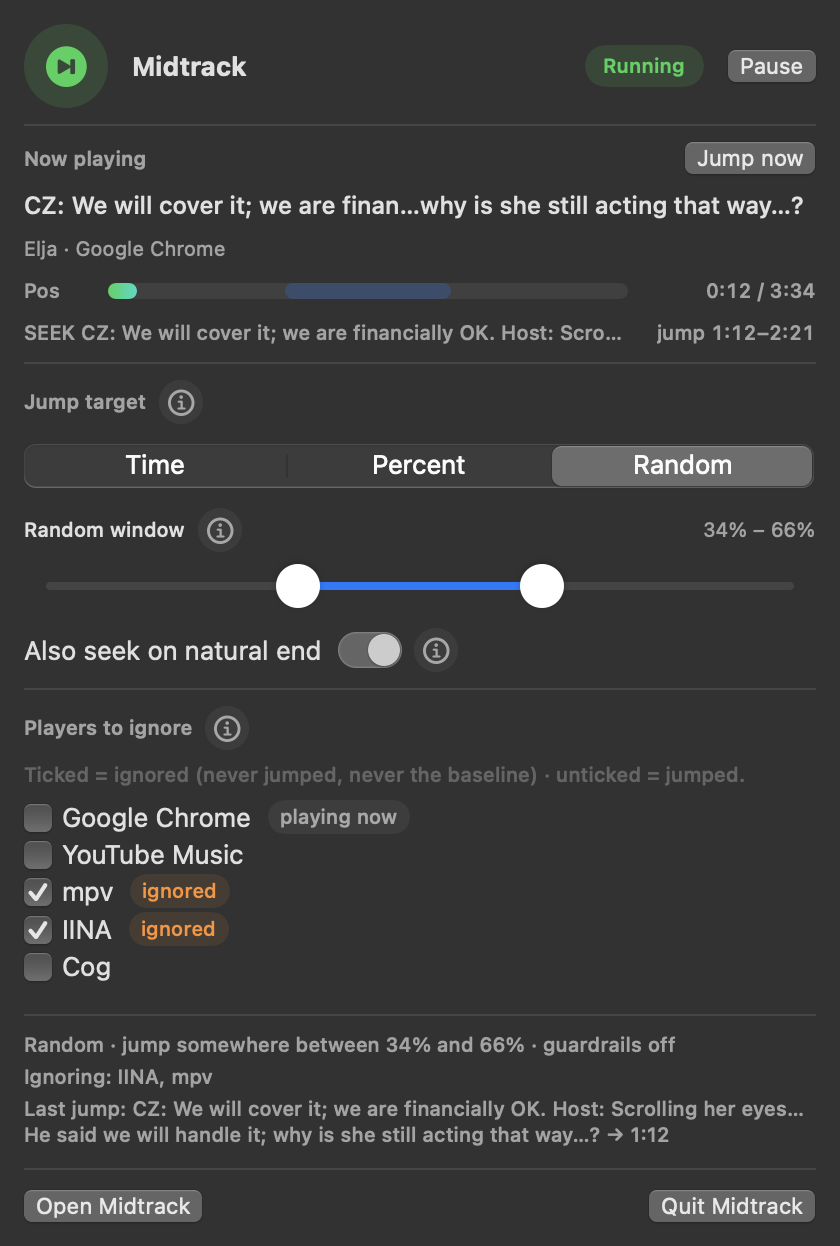
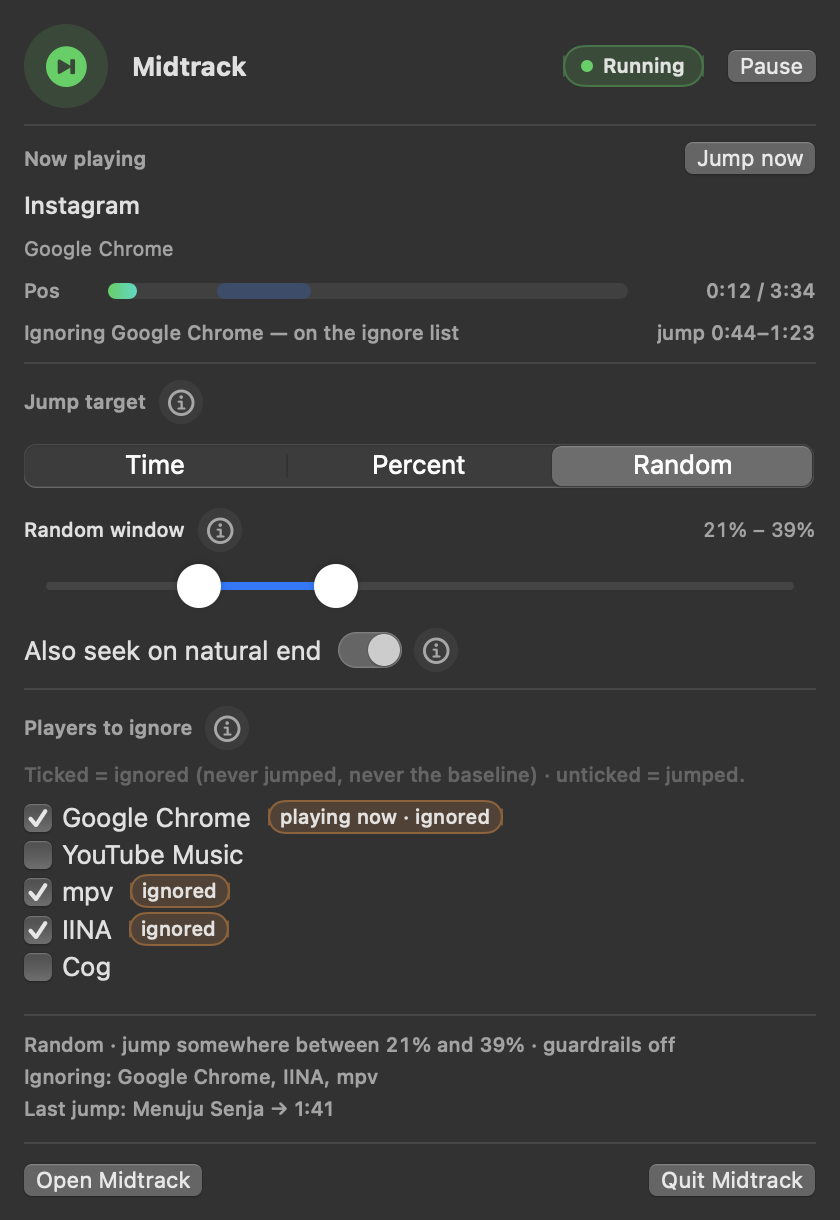
Improve badge contrast and move to com.xaepudin.midtrack
The Running capsule now uses primary text with a green dot, tint, and border
instead of green-on-green text; ignored player pills use primary text on an
orange tint with a border. Both stay legible on the translucent menu bar
material in light and dark appearance.

Change the bundle identifier to com.xaepudin.midtrack (the requested
com.xaepudin.konvolusi would collide with the Konvolusi app). On first launch
the new domain copies the previous com.asep.midtrack defaults once, preserving
the rule, ignore list, onboarding state, and window frame.

Docs screenshots regenerated with the new contrast.

diff --git a/Sources/Midtrack/ControlViews.swift b/Sources/Midtrack/ControlViews.swift
@@ -202,17 +202,33 @@ struct StatusHeader: View {
 
             Spacer(minLength: 8)
 
-            Text(status.enabled ? "Running" : "Paused")
-                .font(.caption.weight(.semibold))
-                .padding(.horizontal, 9)
-                .padding(.vertical, 4)
-                .foregroundStyle(status.enabled ? Color.green : Color.secondary)
-                .background(
-                    status.enabled ? Color.green.opacity(0.13) : Color.secondary.opacity(0.11),
-                    in: Capsule()
+            HStack(spacing: 5) {
+                Circle()
+                    .fill(status.enabled ? Color.green : Color.secondary.opacity(0.55))
+                    .frame(width: 6, height: 6)
+                    .accessibilityHidden(true)
+                Text(status.enabled ? "Running" : "Paused")
+                    .font(.caption.weight(.semibold))
+            }
+            .padding(.horizontal, 9)
+            .padding(.vertical, 4)
+            // The label itself stays in the primary text colour so it keeps its
+            // contrast on the translucent menu bar material; the dot and tint
+            // carry the green/grey meaning.
+            .foregroundStyle(.primary)
+            .background(
+                status.enabled ? Color.green.opacity(0.16) : Color.secondary.opacity(0.11),
+                in: Capsule()
+            )
+            .overlay(
+                Capsule().strokeBorder(
+                    status.enabled ? Color.green.opacity(0.32) : Color.clear,
+                    lineWidth: 1
                 )
-                .accessibilityLabel("Status")
-                .accessibilityValue(status.enabled ? "Running" : "Paused")
+            )
+            .accessibilityElement(children: .ignore)
+            .accessibilityLabel("Status")
+            .accessibilityValue(status.enabled ? "Running" : "Paused")
 
             Button(status.enabled ? "Pause" : "Start") {
                 model.toggleEnabled()
@@ -765,12 +781,20 @@ struct PlayersSection: View {
             if !tags.isEmpty {
                 Text(tags.joined(separator: " · "))
                     .font(.caption2.weight(.medium))
-                    .foregroundStyle(ignored ? Color.orange : Color.secondary)
+                    // Primary text keeps "ignored" legible on the orange tint;
+                    // the tint and border carry the warning colour.
+                    .foregroundStyle(ignored ? Color.primary : Color.secondary)
                     .padding(.horizontal, 6)
                     .padding(.vertical, 2)
                     .background(
-                        (ignored ? Color.orange : Color.secondary).opacity(0.10),
+                        ignored ? Color.orange.opacity(0.16) : Color.secondary.opacity(0.10),
                         in: Capsule()
+                    )
+                    .overlay(
+                        Capsule().strokeBorder(
+                            ignored ? Color.orange.opacity(0.38) : Color.clear,
+                            lineWidth: 1
+                        )
                     )
                     .lineLimit(1)
             }

diff --git a/Sources/MidtrackKit/Preferences.swift b/Sources/MidtrackKit/Preferences.swift
@@ -18,7 +18,7 @@ public enum Prefs {
         }
     }
 
-    public static let suiteName = "com.asep.midtrack"
+    public static let suiteName = "com.xaepudin.midtrack"
 
     /// Swappable so the test suite writes to a throwaway domain instead of the
     /// real preferences of whoever runs the tests.
@@ -28,6 +28,24 @@ public enum Prefs {
         if Bundle.main.bundleIdentifier == suiteName { return .standard }
         return UserDefaults(suiteName: suiteName) ?? .standard
     }()
+
+    /// Copies the preferences of the previous bundle identifier
+    /// (`com.asep.midtrack`) into this one on first launch. The identifier is
+    /// the only thing that changed, so the rule, ignore list, onboarding state,
+    /// and window frame should survive the move.
+    public static func migratePreviousBundleIdentifierIfNeeded() {
+        let marker = "migratedFromPreviousBundleIdentifier"
+        guard !store.bool(forKey: marker) else { return }
+        store.set(true, forKey: marker)
+        guard store.object(forKey: Key.enabled) == nil else { return }
+
+        let previous = "com.asep.midtrack"
+        guard let legacy = UserDefaults(suiteName: previous),
+              let domain = legacy.persistentDomain(forName: previous) else { return }
+        for (key, value) in domain where store.object(forKey: key) == nil {
+            store.set(value, forKey: key)
+        }
+    }
 
     /// Guardrail defaults, the same as the Android app. They only apply while
     /// `guardrailsEnabled` is on.

diff --git a/Sources/Midtrack/MidtrackApp.swift b/Sources/Midtrack/MidtrackApp.swift
@@ -36,6 +36,10 @@ struct MidtrackApp: App {
     private let suppressWelcomeAtLaunch = CommandLine.arguments.contains("--show-main")
 
     init() {
+        // The app's bundle identifier changed; carry the old defaults over
+        // before AppModel or any @AppStorage reads them.
+        Prefs.migratePreviousBundleIdentifierIfNeeded()
+
         // `--check` and the render modes inspect the environment and exit; they
         // must run before the menu bar UI (and the reader it starts) exists.
         Diagnostics.runIfRequested()

diff --git a/README.md b/README.md
@@ -73,7 +73,7 @@ Midtrack**.
 | **Status** line | The watcher's narration: baseline, track change, `SEEK … → 1:41`, or *why* it skipped |
 | **Players to ignore** | Ticked = ignored, unticked = jumped. Ticked players are never jumped, and their sessions never become the baseline |
 
-Settings persist in `~/Library/Preferences/com.asep.midtrack.plist`.
+Settings persist in `~/Library/Preferences/com.xaepudin.midtrack.plist`.
 
 ### Players to ignore
 
@@ -176,7 +176,7 @@ now-playing snapshot:
 
 ```
 Midtrack self-check
-  bundle          : com.asep.midtrack (…/dist/Midtrack.app)
+  bundle          : com.xaepudin.midtrack (…/dist/Midtrack.app)
   reader script   : …/Contents/Resources/reader.js (found)
   MediaRemote seek: available
   settings        : on · Random · jump somewhere between 15% and 60% · guardrails off · auto-next on
@@ -224,10 +224,11 @@ message changes.
 
 ## Identity
 
-- Bundle identifier **`com.asep.midtrack`**, executable **`Midtrack`**, app
+- Bundle identifier **`com.xaepudin.midtrack`**, executable **`Midtrack`**, app
   **`dist/Midtrack.app`**, launcher **`./Midtrack`**.
-- Preferences live in `com.asep.midtrack`, logs in
-  `~/Library/Logs/Midtrack/app.log`.
+- Preferences live in `com.xaepudin.midtrack`, logs in
+  `~/Library/Logs/Midtrack/app.log`. The first launch after the identifier
+  change copies the previous `com.asep.midtrack` defaults once.
 - The app icon is drawn by `scripts/make-icon.py`: a teal waveform bisected by an
   orange midpoint marker. The menu bar uses the same mark as a monochrome
   template image, dimmed while paused.

diff --git a/CHANGELOG.md b/CHANGELOG.md
@@ -29,6 +29,8 @@ First Midtrack release: **Skip to the good part — automatically.**
 - Rebuilt the panel and controls in the visual language of Konvolusi: card
   surfaces, section headers, ⓘ popovers, monospaced values, and shared controls
   between the panel and the window.
+- The bundle identifier is **`com.xaepudin.midtrack`**; existing Midtrack
+  defaults are copied once from `com.asep.midtrack`.
 - The status line now calls the master switch **Running/Paused** rather than
   on/off, matching the Start/Pause button.
 - The panel is 420 pt wide and shows the **Players to ignore** list directly.
